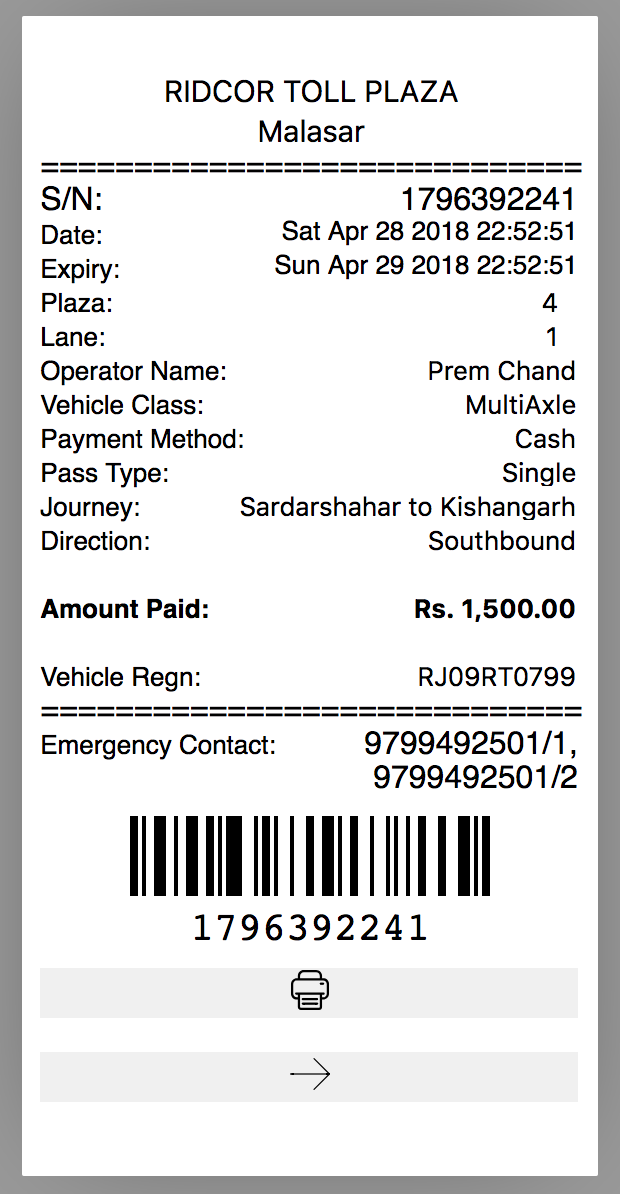
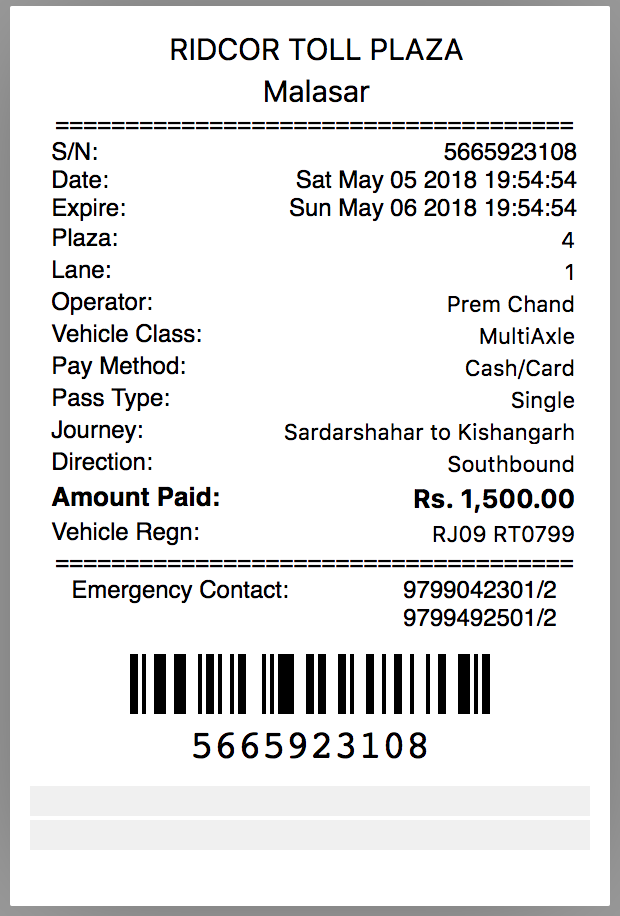
Add files via upload

Changed region(s): [[0.0, 0.0, 1.0, 1.0], [0.4903, 0.8865, 0.521, 0.917]]

diff --git a/toll/Receipt_2.html b/toll/Receipt_2.html
@@ -10,111 +10,95 @@
        
         
 	</head>
-	<body style="width:288px; height:580px;">
+	<body style="width:300px; height:340px;">
         <script src="default_data.js"></script>
-        <br/>
-        <div style="font-size:16px;">
-
-            <div style="text-align:center;">
-            <input type="text" id="Plaza_Name" value="RIDCOR TOLL PLAZA" style="border:0;text-align:center;font-size:15px; width:100%;"><br/>
-            <input type="text" id="Plaza_Address" value="Malasar" style="border:0;text-align:center;font-size:15px;width:100%;"<br/>
-            =============================
-            </div>
-            <div>
-                <span>S/N: </span>
-                <div id="snId" style="width: 80%;float: right; text-align: right;"></div>
-                <script type="text/javascript">
-                    document.getElementById("snId").innerHTML = Math.floor(1000000000 + Math.random() * 9000000000);
-                </script>
-            </div>
-            <div>
-                <span style="font-size:13px;height:12px;">Date: </span>
-                <div id="dateId" style="width: 80%;float: right; text-align: right; font-size:13px;height:12px;"></div>
-                <span style="font-size:13px;height:12px;">Expiry: </span>
-                <div id="expId" style="width: 80%;float: right; text-align: right; font-size:13px;height:12px;"></div>
-                <script type="text/javascript">
+        <table cellspacing="0" cellpadding="0" style="width:98%; padding-left:10px; table-layout: auto;">
+            <tr>
+                <td colspan="2" style="border:0; padding:0; margin:0">
+                    <div id="Plaza_Name" style="border:0; text-align:center; font-size:13px; width:100%"></div>
+                </td>
+            </tr>
+            <tr>
+                <td colspan="2" style="border:0; padding:0; margin:0; text-align:center;">
+                ----------------------------------------------------------------
+                </td>
+            </tr>
+            <tr>
+                <td style="width:40%">Tran ID:</td>
+                <td>
+                    <div id="snId" style="width: 80%;float: left; text-align: left;"></div>
+                    <script type="text/javascript">
+                        document.getElementById("snId").innerHTML = Math.floor(100000 + Math.random() * 900000);
+                    </script>
+                </td>
+            </tr>
+            <tr>
+                <td>Date:</td>
+                <td><div id="dateId" style="text-align: left;"></div>
+                </td>
+            <script type="text/javascript">
                     var todayDate = new Date();
                     var n = todayDate.toDateString();
                     var t = todayDate.toLocaleTimeString();
                     document.getElementById("dateId").innerHTML = n + " " + t;
-                    
-                    var nextDay = new Date();
-                    nextDay.setDate(todayDate.getDate()+1);
-                    var nn = nextDay.toDateString();
-                    var tt = nextDay.toLocaleTimeString();
-                    document.getElementById("expId").innerHTML = nn + " " + tt;
                 </script>
-            </div>
-            <div>
-                <span style="font-size:13px;height:12px;">Plaza: </span>
-                <div  style="width: 80%;float: right; text-align: right; ">
-                    <input type="text" Id="Plaza" value="4" style="border:0;text-align:right;font-size:13px;height:12px;">&nbsp;&nbsp;
-                </div>
-            </div>
-            <div>
-                <span style="font-size:13px;height:12px;">Lane: </span><div  style="width: 80%;float: right; text-align: right; ">
-                    <input type="text" Id="Lane" value="1" style="border:0;text-align:right;font-size:13px;height:12px;">&nbsp;&nbsp;
-                </div>
-            </div>
-            
-            <div>
-                <span style="font-size:13px;height:12px;">Operator Name: </span><div style="width: 55%;float: right; text-align: right; ">
-                    <input type="text" Id="Operator_Name" value="Prem Chand" style="border:0;text-align:right;font-size:13px;height:12px;">
-                </div>
-            </div>
-            <div>
-                <span style="font-size:13px;height:12px;">Vehicle Class: </span><div  style="width: 55%;float: right; text-align: right; ">
-                    <input type="text" Id="Vehicle_Class" value="MultiAxle" style="border:0;text-align:right;font-size:13px;height:12px;">
-                </div>
-            </div>
-            <div>
-                <span style="font-size:13px;height:12px;">Payment Method: </span><div  style="width: 53%;float: right; text-align: right; ">
-                    <input type="text" Id="Payment_Method" value="Cash" style="border:0;text-align:right;font-size:13px;height:12px; width:120px;">
-                </div>
-            </div>
-            <div>
-                <span style="font-size:13px;height:12px;">Pass Type: </span><div  style="width: 55%;float: right; text-align: right; ">
-                    <input type="text" Id="Pass_Type" value="Single" style="border:0;text-align:right;font-size:13px;height:12px;">
-                </div>
-            </div>
-             <div>
-                <span style="font-size:13px;height:12px;">Journey: </span><div  style="width: 70%;float: right; text-align: right; ">
-                    <input type="text" Id="Journey" value="Sardarshahar to Kishangarh" style="border:0;text-align:right;font-size:13px;height:12px;width:170px;">
-                </div>
-            </div>
-            
-            <div>
-                <span style="font-size:13px;height:12px;">Direction: </span><div  style="width: 70%;float: right; text-align: right; ">
-                    <input type="text" Id="Direction" value="Southbound" style="border:0;text-align:right;font-size:13px;height:12px;width:170px;">
-                </div>
-            </div>
-            <br/>
-            <div style="font-weight:bold">
-                <span style="font-size:13px;height:12px;">Amount Paid: </span><div  style="width: 60%;float: right; text-align: right; ">
-                    <input type="text" Id="Amount_Paid" value="Rs. 1,500.00" style="border:0;text-align:right;font-size:13px;height:12px;width:150px;font-weight:bold;">
-                </div>
-            </div>
-            <br/>
-            <div>
-                <span style="font-size:13px;height:12px;">Vehicle Regn: </span><div style="width: 55%;float: right; text-align: right; ">
-                    <input type="text" Id="Vehicle_Regn" value="RJ09RT0799" style="border:0;text-align:right;font-size:13px;height:12px;width:145px;">
-                </div>
-            </div>
-            <div style="text-align:center;">=============================</div>
-            <div>
-                <span style="font-size:13px;height:12px;">Emergency Contact: </span>
-                <div id="Emergency_Contact" style="width: 40%;float: right; text-align: right; ">9799492501/1</br/>9799492501/2</div>
-            </div>
-        </div>
+            </tr>
+            <tr>
+                <td>Lane:</td>
+                <td style="text-align:right;">
+                <input type="text" Id="Lane" value="1" style="border:0; text-align:left;width:98%">
+                </td>
+            </tr>
+            <tr>
+                <td>Shift:</td>
+                <td style="text-align:right;">
+                <input type="text" Id="Shift" value="4" style="border:0; text-align:left;width:98%">
+                </td>
+            </tr>
+            <tr>
+                <td>Vehicle Class:</td>
+                <td style="text-align:left;">
+                <input type="text" Id="Vehicle_Class" value="Multi Axle Truck" style="border:0;text-align:left;width:98%">
+                </td>
+            </tr>
+            <tr>
+                <td>Journey:</td>
+                <td style="text-align:left;">
+                <input type="text" Id="Journey" value="Single" style="border:0;text-align:left;width:98%">
+                </td>
+            </tr>
+            <tr>
+                <td>Veh. Reg. No.:</td>
+                <td style="text-align:left;">
+                <input type="text" Id="Vehicle_Regn" value="RJ09 RT0799" style="border:0;text-align:left;width:98%">    
+                </td>
+            </tr>
+            <tr>
+                <td>Toll Collector Id:</td>
+                <td style="text-align:left;">
+                <input type="text" Id="Toll_Collector_Id" value="Southbound" style="border:0;text-align:left;width:98%">    
+                </td>
+            </tr>
+            <tr>
+                <td style="font-weight:bold;font-size:15px;">Amount:</td>
+                <td style="text-align:left;">
+                <input type="text" Id="Amount_Paid" value="Rs. 1,500.00" style="border:0;text-left:right;font-weight:bold; font-size:15px;width:90%">
+                </td>
+            </tr>
+            <tr>
+            <td colspan="2">
+                <center><svg id="barcode"></svg></center>
+                </td>
+            </tr>
+        </table>
         
-        <center><svg id="barcode"></svg></center>
         <script>
         //JsBarcode("#barcode", "1234567890");
-        JsBarcode("#barcode", document.getElementById("snId").innerHTML, {
+        JsBarcode("#barcode", document.getElementById("snId").innerHTML+"0000000", {
           //format: "pharmacode",
           //lineColor: "#0aa",
             width: 2,
-            height: 40,
+            height: 30,
             displayValue: true
         });
         </script>
@@ -131,36 +115,37 @@
             var i;
             for(i = 0; i<arr.length; i++) {
                  
-                document.getElementById("Plaza_Name").value  = arr[i].Plaza_Name;
-                document.getElementById("Plaza_Address").value  = arr[i].Plaza_Address;
-                document.getElementById("Plaza").value  = arr[i].Plaza;
+                document.getElementById("Plaza_Name").innerHTML  = arr[i].Plaza_Name;
+                //document.getElementById("Plaza_Address").value  = arr[i].Plaza_Address;
+                document.getElementById("Shift").value  = arr[i].Shift;
                 document.getElementById("Lane").value = arr[i].Lane;
-                document.getElementById("Operator_Name").value = arr[i].Operator_Name;
+                //document.getElementById("Operator_Name").value = arr[i].Operator_Name;
                 document.getElementById("Vehicle_Class").value = arr[i].Vehicle_Class;
-                document.getElementById("Payment_Method").value  = arr[i].Payment_Method;
-                document.getElementById("Pass_Type").value  = arr[i].Pass_Type;
+                //document.getElementById("Payment_Method").value  = arr[i].Payment_Method;
+                //document.getElementById("Pass_Type").value  = arr[i].Pass_Type;
                 document.getElementById("Journey").value  = arr[i].Journey;
-                document.getElementById("Direction").value  = arr[i].Direction;
+                document.getElementById("Toll_Collector_Id").value  = arr[i].Toll_Collector_Id;
                 document.getElementById("Amount_Paid").value  = arr[i].Amount_Paid;
                 document.getElementById("Vehicle_Regn").value  = arr[i].Vehicle_Regn;
                 document.getElementById("Emergency_Contact").innerHTML  = arr[i].Emergency_Contact;
-            
             }
             
         }
         </script>
-        <script src="default_data.js"></script>
-        <script>
-        funDefaultData(defaultDataArray);
-        </script>
+        
         
         <center>
-            <button type="button" onclick="printPage();" autofocus style="width:100%;height:25px; border:0px; background-color:#F0F0F0">
-                <img src="printer.svg" alt="Print Receipt" height="20px"> 
+            <button type="button" onclick="printPage();" autofocus style="width:100%;height:15px; border:0px; background-color:#F0F0F0">Have a nice journey!
+                <!--<img src="printer.svg" alt="Print Receipt" height="20px">--> 
             </button>
-            <br/><br/>
-            <button type="button" onClick="window.location.reload();" style="width:100%; height:25px; border:0px; background-color:#F0F0F0"><img src="next.svg" alt="Print Receipt" height="20px"> </button>
+            <br/>
+            <button type="button" onClick="window.location.reload();" style="width:100%; height:15px; border:0px; background-color:#F0F0F0">Emergency Contact Number: <span id="Emergency_Contact">1234567890</span>
+                <!--<img src="next.svg" alt="Print Receipt" height="20px"> </button>-->
         </center>
+        <script src="default_data.js"></script>
+        <script>
+        funDefaultData(defaultDataArray_2);
+        </script>
 
 	</body>
 </html>

diff --git a/toll/index.html b/toll/index.html
@@ -68,7 +68,7 @@ footer {background: #aaa;color:white;}
 <article class="article">
   <h1>Receipt Type 2</h1>
   <p style="text-align: justify;margin:15px;">Receipt printing  is the most important part of orgnizatoins like school, college or institute or many other customer facing businesses. Printing receipts is a major activity of any day in any  institute or business. In a school, you will need to receive fees from hundreds of students in a day and issue receipts to them. In a business you might need to collect payments from customers and provide receipts to them.</p>
-    <div style="text-align: center;"><a href="Receipt_2.html"><img src="Receipt_1.png" alt="Print Receipt" width="30%"></a></div>
+    <div style="text-align: center;"><a href="Receipt_2.html"><img src="Receipt_2.png" alt="Print Receipt" width="30%"></a></div>
 <p style="text-align: justify;margin:15px;">This is a prototype of receipt printing. We can build a complete solution if needed to serve end to end business requirement for receipt printing.</p>
 <p><center><strong>Best Supported for specific size receipt printing page and Chrome Browser!</strong></center></p>
 </article>

diff --git a/toll/Receipt_1.html b/toll/Receipt_1.html
@@ -108,9 +108,9 @@
                 </td>
             </tr>
             <tr>
-                <td  style="font-weight:bold;">Amount Paid:</td>
+                <td  style="font-weight:bold; font-size:13px;">Amount Paid:</td>
                 <td colspan="2" style="text-align:right;">
-                <input type="text" Id="Amount_Paid" value="Rs. 1,500.00" style="border:0;text-align:right;font-weight:bold;width:90%">
+                <input type="text" Id="Amount_Paid" value="Rs. 1,500.00" style="border:0;text-align:right;font-weight:bold;font-size:13px;width:90%">
                 </td>
             </tr>
             <tr>
@@ -140,7 +140,7 @@
           //format: "pharmacode",
           //lineColor: "#0aa",
             width: 2,
-            height: 40,
+            height: 30,
             displayValue: true
         });
         </script>
@@ -178,7 +178,7 @@
         </script>
         <script src="default_data.js"></script>
         <script>
-        funDefaultData(defaultDataArray);
+        funDefaultData(defaultDataArray_1);
         </script>
         
         <center>

diff --git a/toll/default_data.js b/toll/default_data.js
@@ -1,4 +1,4 @@
-var defaultDataArray = [
+var defaultDataArray_1 = [
 {
 "Plaza_Name": "RIDCOR TOLL PLAZA",
 "Plaza_Address": "Malasar",
@@ -14,5 +14,20 @@ var defaultDataArray = [
 "Vehicle_Regn": "RJ09 RT0799",
 "Emergency_Contact_1": "9799042301/2",
 "Emergency_Contact_2": "9799492501/2"
+}
+];
+
+
+var defaultDataArray_2 = [
+{
+"Plaza_Name": "WELCOME TO MEGHAHIGHWAY RIDCOR AN INITIATIVE OF GOR AND IL&FS (Arjunsar to Pallu)",
+"Lane": "Lane1",
+"Shift": "Third Shift",
+"Vehicle_Class": "Multi Axle truck",
+"Journey": "Single",
+"Vehicle_Regn": "RJ09 RT0799",
+"Toll_Collector_Id": "5",
+"Amount_Paid": "Rs. 295.00",
+"Emergency_Contact": "1234567890"
 }
 ];
